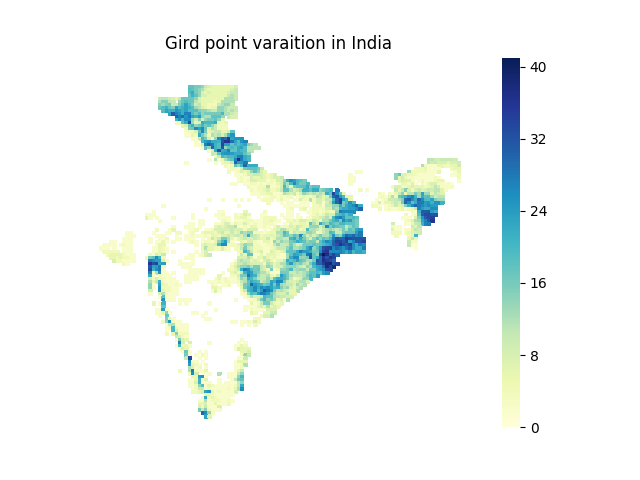
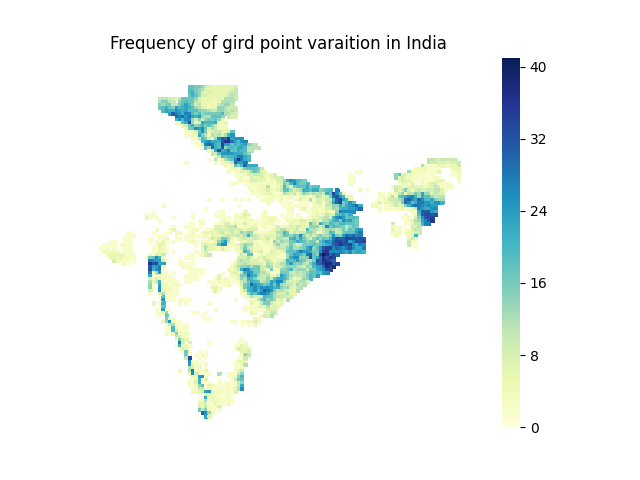
plots updated

Changed region(s): [[0.1562, 0.0625, 0.6875, 0.125]]

diff --git a/code/code.py b/code/code.py
@@ -34,7 +34,8 @@ def get_mask():
 
     for i in range(121):
         for j in range(121):
-            if np.unique(M[i][j]).size > 1 or not np.all(M[i][j]):
+            # if np.unique(M[i][j]).size > 1 or not np.all(M[i][j]):
+            if np.unique(M[i][j]).size > 1:
                 mask[i][j]=0
 
     mask=mask.transpose()
@@ -78,7 +79,7 @@ def zone_mask(zone):
 
 
 
-def plot_hm(X,t,zone=7):
+def plot_hm(X,t,zone=0):
     """
     Plot heat map
     """
@@ -88,14 +89,14 @@ def plot_hm(X,t,zone=7):
     X=np.flipud(X)
     # mask=get_mask()#for changing grid points
     mask=zone_mask(zone)#for individual zones
-    ax=sns.heatmap(X,xticklabels=False,yticklabels=False,cmap="YlGnBu",cbar=False,mask=mask)
-    # ax=sns.heatmap(X,xticklabels=False,yticklabels=False,cmap="YlGnBu",mask=mask)
+    # ax=sns.heatmap(X,xticklabels=False,yticklabels=False,cmap="YlGnBu",cbar=False,mask=mask)
+    ax=sns.heatmap(X,xticklabels=False,yticklabels=False,cmap="YlGnBu",mask=mask)
     # ax=sns.heatmap(X,xticklabels=False,yticklabels=False,cmap="YlGnBu",cbar=False)
     
-    plt.title(t+" for "+T[zone])
+    plt.title(t)
     # plt.show()
     # exit(-1)
-    plt.savefig("images/zone/"+str(zone)+"/"+t+".png")
+    plt.savefig("images/zonal_analysis/"+str(zone)+"/"+t+".png")
     plt.close()
 
 
@@ -327,8 +328,8 @@ def part3():
                 uniq,ind,c=np.unique(M[i][j],return_inverse=True,return_counts=True)
                 data=np.append(data,np.array([(i,j,c[0],c[1],ind)],dtype=data.dtype))
 
-    zone_analysis(data)
-    # zyv(data)
+    # zone_analysis(data)
+    zyv(data)
     # gpv(data)
 
 
@@ -346,9 +347,9 @@ def gpv(data):
                 if i['year'][j] != i['year'][j-1]:
                     t[i['X']][i['Y']]+=1
 
-    # plot_hm(t,"Gird point varaition in India")
+    # plot_hm(t,"Frequency of gird point varaition in India")
     for i in range(1,8,1):
-        plot_hm(t,"Gird point varaition in "+T[i],i)
+        plot_hm(t,"Frequency of gird point varaition in "+T[i],i)
 
 
 
@@ -376,17 +377,18 @@ def zyv(data):
                     if i['year'][j] != i['year'][j-1]:
                         Y[j-1]+=1
 
+        Y=np.true_divide(Y,d.shape[0])
         plt.rcParams.update({'font.size': 22})
         plt.bar(X,Y,tick_label=X)
         plt.xlabel("Year",fontsize=25)
-        plt.ylabel("Number of Points",fontsize=25)
+        plt.ylabel("Percent of total Points",fontsize=25)
         plt.xticks(rotation=90)
         figure = plt.gcf()
         figure.set_size_inches(32, 18)
 
-        # if ind == 0:
-            # plt.title("Yearly change of grid point in India",fontsize=30)
-            # plt.savefig("images/india/"+"Yearly change of grid points in "+"India"+".png")
+        if ind == 0:
+            plt.title("Yearly change of grid point in India",fontsize=30)
+            plt.savefig("images/india/"+"Yearly change of grid points in "+"India"+".png")
         if ind:
             plt.title("Yearly change of grid point in "+T[ind],fontsize=30)
             plt.savefig("images/zonal_analysis/"+str(ind)+"/Yearly change of grid points in "+T[ind]+".png")
